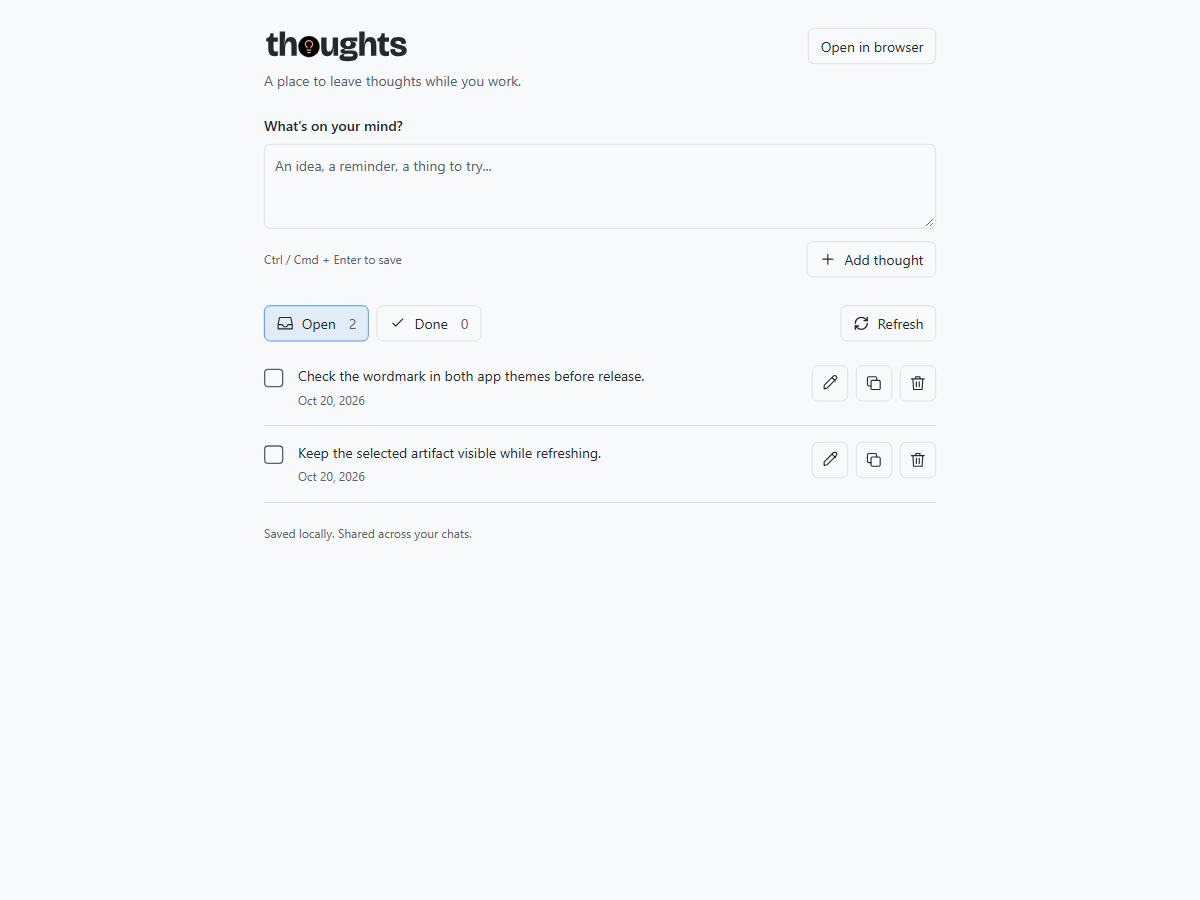
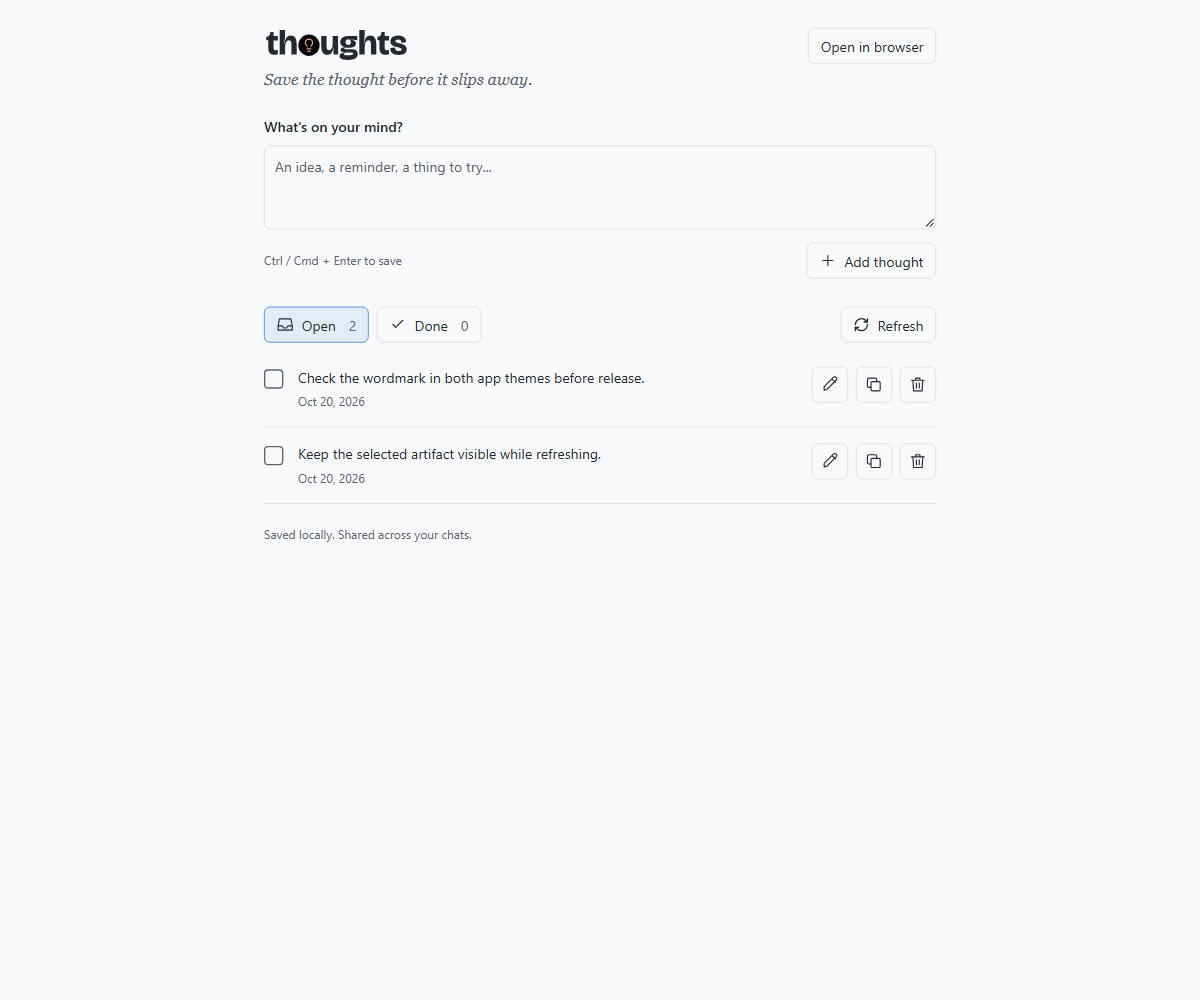
Give canvas headers human problem-focused taglines
Copilot-Session: bf83cfd4-9425-4836-802c-3192a181469b

diff --git a/apps/artifacts/branding.css b/apps/artifacts/branding.css
@@ -77,7 +77,7 @@ input::placeholder, textarea::placeholder { color: var(--muted); opacity: 1; }
 @media (max-width: 680px) {
     :root { --control-height: 44px; --control-padding-x: 10px; }
     main { padding: 18px 16px; }
-    header, .title-row { flex-wrap: wrap; }
+    header { flex-wrap: wrap; }
     .header-actions { justify-content: start; }
 }
 @media (prefers-reduced-motion: reduce) { button:active { transform: none; } }
@@ -87,6 +87,10 @@ input::placeholder, textarea::placeholder { color: var(--muted); opacity: 1; }
     .check-filter input { appearance: auto; background: revert; border: revert; }
     .check-filter input::before { display: none; }
 }
+.app-header { display: flex; align-items: start; justify-content: space-between; flex-wrap: wrap; gap: 16px; }
+.app-brand { flex: 1 1 250px; min-width: 0; }
+.app-brand .app-wordmark { width: max-content; max-width: 100%; }
+.app-tagline { margin: 6px 0 0; color: var(--muted); font: italic 400 16px/24px Georgia, "Times New Roman", serif; }
 .app-wordmark { margin: 0; flex: 0 1 auto; min-width: 0; color: var(--ink, var(--text, inherit)); }
 .app-wordmark svg { display: block; width: 100%; height: auto; max-height: 34px; }
 .app-wordmark .icon-halo { fill: #000000; }

diff --git a/apps/context-monitor/branding.css b/apps/context-monitor/branding.css
@@ -77,7 +77,7 @@ input::placeholder, textarea::placeholder { color: var(--muted); opacity: 1; }
 @media (max-width: 680px) {
     :root { --control-height: 44px; --control-padding-x: 10px; }
     main { padding: 18px 16px; }
-    header, .title-row { flex-wrap: wrap; }
+    header { flex-wrap: wrap; }
     .header-actions { justify-content: start; }
 }
 @media (prefers-reduced-motion: reduce) { button:active { transform: none; } }
@@ -87,6 +87,10 @@ input::placeholder, textarea::placeholder { color: var(--muted); opacity: 1; }
     .check-filter input { appearance: auto; background: revert; border: revert; }
     .check-filter input::before { display: none; }
 }
+.app-header { display: flex; align-items: start; justify-content: space-between; flex-wrap: wrap; gap: 16px; }
+.app-brand { flex: 1 1 250px; min-width: 0; }
+.app-brand .app-wordmark { width: max-content; max-width: 100%; }
+.app-tagline { margin: 6px 0 0; color: var(--muted); font: italic 400 16px/24px Georgia, "Times New Roman", serif; }
 .app-wordmark { margin: 0; flex: 0 1 auto; min-width: 0; color: var(--ink, var(--text, inherit)); }
 .app-wordmark svg { display: block; width: 100%; height: auto; max-height: 34px; }
 .app-wordmark .icon-halo { fill: #000000; }

diff --git a/apps/screenshots/branding.css b/apps/screenshots/branding.css
@@ -77,7 +77,7 @@ input::placeholder, textarea::placeholder { color: var(--muted); opacity: 1; }
 @media (max-width: 680px) {
     :root { --control-height: 44px; --control-padding-x: 10px; }
     main { padding: 18px 16px; }
-    header, .title-row { flex-wrap: wrap; }
+    header { flex-wrap: wrap; }
     .header-actions { justify-content: start; }
 }
 @media (prefers-reduced-motion: reduce) { button:active { transform: none; } }
@@ -87,6 +87,10 @@ input::placeholder, textarea::placeholder { color: var(--muted); opacity: 1; }
     .check-filter input { appearance: auto; background: revert; border: revert; }
     .check-filter input::before { display: none; }
 }
+.app-header { display: flex; align-items: start; justify-content: space-between; flex-wrap: wrap; gap: 16px; }
+.app-brand { flex: 1 1 250px; min-width: 0; }
+.app-brand .app-wordmark { width: max-content; max-width: 100%; }
+.app-tagline { margin: 6px 0 0; color: var(--muted); font: italic 400 16px/24px Georgia, "Times New Roman", serif; }
 .app-wordmark { margin: 0; flex: 0 1 auto; min-width: 0; color: var(--ink, var(--text, inherit)); }
 .app-wordmark svg { display: block; width: 100%; height: auto; max-height: 34px; }
 .app-wordmark .icon-halo { fill: #000000; }

diff --git a/apps/thoughts/branding.css b/apps/thoughts/branding.css
@@ -77,7 +77,7 @@ input::placeholder, textarea::placeholder { color: var(--muted); opacity: 1; }
 @media (max-width: 680px) {
     :root { --control-height: 44px; --control-padding-x: 10px; }
     main { padding: 18px 16px; }
-    header, .title-row { flex-wrap: wrap; }
+    header { flex-wrap: wrap; }
     .header-actions { justify-content: start; }
 }
 @media (prefers-reduced-motion: reduce) { button:active { transform: none; } }
@@ -87,6 +87,10 @@ input::placeholder, textarea::placeholder { color: var(--muted); opacity: 1; }
     .check-filter input { appearance: auto; background: revert; border: revert; }
     .check-filter input::before { display: none; }
 }
+.app-header { display: flex; align-items: start; justify-content: space-between; flex-wrap: wrap; gap: 16px; }
+.app-brand { flex: 1 1 250px; min-width: 0; }
+.app-brand .app-wordmark { width: max-content; max-width: 100%; }
+.app-tagline { margin: 6px 0 0; color: var(--muted); font: italic 400 16px/24px Georgia, "Times New Roman", serif; }
 .app-wordmark { margin: 0; flex: 0 1 auto; min-width: 0; color: var(--ink, var(--text, inherit)); }
 .app-wordmark svg { display: block; width: 100%; height: auto; max-height: 34px; }
 .app-wordmark .icon-halo { fill: #000000; }

diff --git a/apps/artifacts/style.css b/apps/artifacts/style.css
@@ -5,7 +5,7 @@ header, .overview, .reader-toolbar, .dialog-heading { justify-content: space-bet
 h1 { margin: 0; font-size: 25px; font-weight: 600; letter-spacing: -.6px; line-height: 1.3; }
 h2 { font-size: 14px; font-weight: 600; margin: 0 0 14px; }
 h3 { font-size: 14px; font-weight: 600; }
-.muted, .local-label, .browser-status { color: var(--muted); font-size: 12px; }
+.muted, .browser-status { color: var(--muted); font-size: 12px; }
 .browser-status { margin: 8px 0; overflow-wrap: anywhere; }
 button, input, select, textarea { font: inherit; color: inherit; }
 button, .download-link { border: 1px solid var(--edge); border-radius: 6px; background: var(--surface); padding: 7px 11px; cursor: pointer; white-space: nowrap; min-height: 34px; color: var(--ink); text-decoration: none; }
@@ -176,7 +176,6 @@ dialog textarea { padding: 10px; resize: vertical; }
     .picker-name { font-size: 14px; }
     header { align-items: start; flex-wrap: wrap; }
     .header-actions { justify-content: start; }
-    .header-actions .local-label { flex-basis: 100%; }
     .overview { align-items: start; gap: 12px; }
     #surface, #surface[data-layout="activity"] { display: block; }
     #surface #reader { display: none; }

diff --git a/apps/screenshots/style.css b/apps/screenshots/style.css
@@ -4,7 +4,7 @@ header { display: flex; align-items: center; justify-content: space-between; gap
 .browser-status { color: var(--muted); font-size: 12px; margin: 8px 0 0; overflow-wrap: anywhere; }
 h1 { margin: 0; font-size: 25px; font-weight: 600; letter-spacing: -.6px; line-height: 1.3; }
 h2 { font-size: 14px; font-weight: 600; margin: 0 0 14px; }
-.local-label, .muted, footer { color: var(--muted); font-size: 12px; }
+.muted, footer { color: var(--muted); font-size: 12px; }
 button, input, select { font: inherit; color: inherit; }
 button { border: 1px solid var(--edge); border-radius: 6px; background: var(--surface); padding: 8px 12px; cursor: pointer; white-space: nowrap; min-height: 38px; }
 button:hover { background: var(--hover); }
@@ -116,7 +116,6 @@ dialog::backdrop { background: rgb(15 18 24 / .72); }
     aside { border: 0; padding: 0; }
     aside h2, #sessions { display: none; }
     .compact-picker { display: block; }
-    .local-label { font-size: 11px; }
     #details { grid-template-columns: repeat(2, minmax(0, 1fr)); }
     .preview-controls { gap: 6px; }
     .preview-stage { height: 45dvh; }

diff --git a/apps/thoughts/index.html b/apps/thoughts/index.html
@@ -25,7 +25,13 @@
     <svg class="glyph" viewBox="0 0 24 24" aria-hidden="true" focusable="false"><use href="/ui-icons.svg#trash"/></svg>
   </template>
   <main>
-    <header><div class="title-row"><h1 class="app-wordmark" aria-label="Thoughts"><span class="visually-hidden">Thoughts</span>__APP_WORDMARK__</h1><button id="open-browser" class="control-button" type="button">Open in browser</button></div><p>A place to leave thoughts while you work.</p></header>
+    <header class="app-header">
+      <div class="app-brand">
+        <h1 class="app-wordmark" aria-label="Thoughts"><span class="visually-hidden">Thoughts</span>__APP_WORDMARK__</h1>
+        <p class="app-tagline">Save the thought before it slips away.</p>
+      </div>
+      <button id="open-browser" class="control-button" type="button">Open in browser</button>
+    </header>
     <p id="browser-status" class="browser-status" role="status" hidden></p>
     <form id="capture">
       <label for="idea">What's on your mind?</label>

diff --git a/apps/screenshots/index.html b/apps/screenshots/index.html
@@ -14,7 +14,13 @@
 </head>
 <body>
 <main>
-    <header><h1 class="app-wordmark" aria-label="Screenshots"><span class="visually-hidden">Screenshots</span>__APP_WORDMARK__</h1><div class="header-actions"><span class="local-label">Local / read-only</span><button id="open-browser" class="control-button" type="button">Open in browser</button></div></header>
+    <header class="app-header">
+        <div class="app-brand">
+            <h1 class="app-wordmark" aria-label="Screenshots"><span class="visually-hidden">Screenshots</span>__APP_WORDMARK__</h1>
+            <p class="app-tagline">Less hunting for that one screenshot.</p>
+        </div>
+        <div class="header-actions"><button id="open-browser" class="control-button" type="button">Open in browser</button></div>
+    </header>
     <p id="browser-status" class="browser-status" role="status" hidden></p>
     <details class="control-panel">
         <summary class="filter-heading">Filters and refresh</summary>

diff --git a/apps/thoughts/style.css b/apps/thoughts/style.css
@@ -1,8 +1,7 @@
 body { --text: var(--ink); --border: var(--edge); --danger: var(--error); }
 main { max-width: 720px; padding: 28px 22px; margin: auto; }
 h1 { margin: 0 0 6px; font-size: var(--text-title-large, 26px); line-height: var(--leading-title-large, 32px); font-weight: var(--font-weight-semibold, 600); letter-spacing: -.025em; }
-header p { margin: 0 0 24px; color: var(--muted); }
-.title-row { display: flex; align-items: center; justify-content: space-between; gap: 12px; margin-bottom: 6px; }
+#capture { margin-top: 24px; }
 .browser-status { color: var(--muted); font-size: 12px; margin: -12px 0 16px; overflow-wrap: anywhere; }
 label { display: block; font-weight: 600; margin-bottom: 8px; }
 textarea { width: 100%; padding: 12px; resize: vertical; min-height: 82px; max-height: 320px; border: 1px solid var(--border); border-radius: 8px; font: inherit; line-height: 1.5; color: var(--text); background: var(--surface); }

diff --git a/apps/context-monitor/index.html b/apps/context-monitor/index.html
@@ -15,7 +15,13 @@
 </head>
 <body>
     <main>
-        <header><h1 class="app-wordmark" aria-label="Context Monitor"><span class="visually-hidden">Context Monitor</span>__APP_WORDMARK__</h1><button id="open-browser" class="control-button" type="button">Open in browser</button></header>
+        <header class="app-header">
+            <div class="app-brand">
+                <h1 class="app-wordmark" aria-label="Context Monitor"><span class="visually-hidden">Context Monitor</span>__APP_WORDMARK__</h1>
+                <p class="app-tagline">See which chats are running out of room.</p>
+            </div>
+            <button id="open-browser" class="control-button" type="button">Open in browser</button>
+        </header>
         <p id="browser-status" class="browser-status" role="status" hidden></p>
         <details class="control-panel">
             <summary class="filter-heading">Filters and refresh</summary>

diff --git a/apps/artifacts/index.html b/apps/artifacts/index.html
@@ -15,10 +15,12 @@
 </head>
 <body>
 <main>
-    <header>
-        <h1 class="app-wordmark" aria-label="Artifacts"><span class="visually-hidden">Artifacts</span>__APP_WORDMARK__</h1>
+    <header class="app-header">
+        <div class="app-brand">
+            <h1 class="app-wordmark" aria-label="Artifacts"><span class="visually-hidden">Artifacts</span>__APP_WORDMARK__</h1>
+            <p class="app-tagline">Your work shouldn't get lost in the chat.</p>
+        </div>
         <div class="header-actions">
-            <span class="local-label">Local / session artifacts</span>
             <button id="new-note" class="control-button" type="button" disabled><span data-icon="plus"></span>New note</button>
             <button id="refresh" class="control-button refresh-control" type="button">Refresh</button>
             <button id="open-browser" class="control-button" type="button">Open in browser</button>

diff --git a/README.md b/README.md
@@ -13,6 +13,8 @@ In Artifacts, Screenshots, and Context Monitor, **Filters and refresh** starts c
 
 All four apps use the same theme-aware typography, surfaces, outlined icons, focus states, and control sizes: 36px on desktop and 44px in narrow views. Each keeps its own layout and workflow.
 
+A short line beneath each wordmark describes the problem the app helps with. These lines share an italic serif style; controls and data keep the app's UI font.
+
 For contributors: `branding.css` and `ui-icons.svg` are identical in every app folder so each extension remains independently installable. Update the copies together; `tests/branding.test.mjs` checks parity and asset delivery. Use `control-button` for boxed actions and add `icon-button` for icon-only actions with an accessible label. Content rows, tree expanders, and heat-map cells keep their own sizing.
 
 Filter headers use the same text metrics and collapsed height as action controls. Native dropdowns stay native, with a `select-field` wrapper for the shared arrow. Filter grids adapt to the available width and text size instead of using fixed field widths; `control-grid-three` keeps three- and six-field groups balanced. Context Monitor's bars, heat map, and usage colors remain app-specific.
